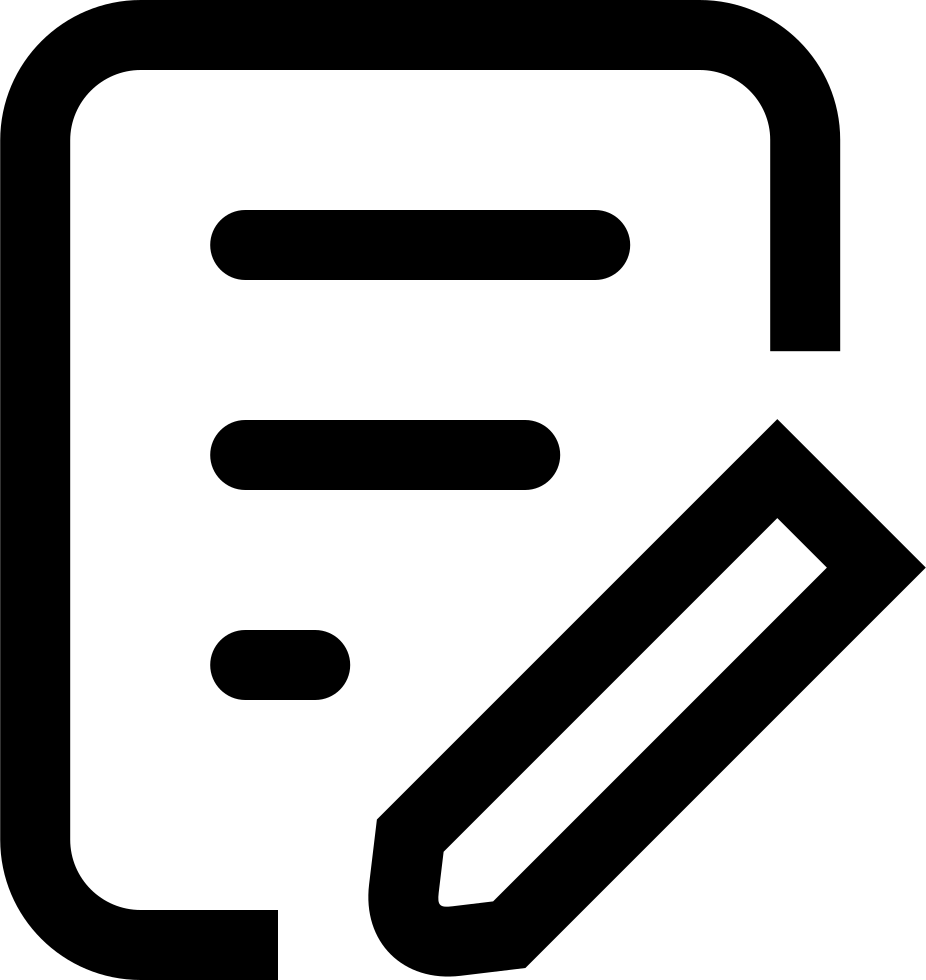
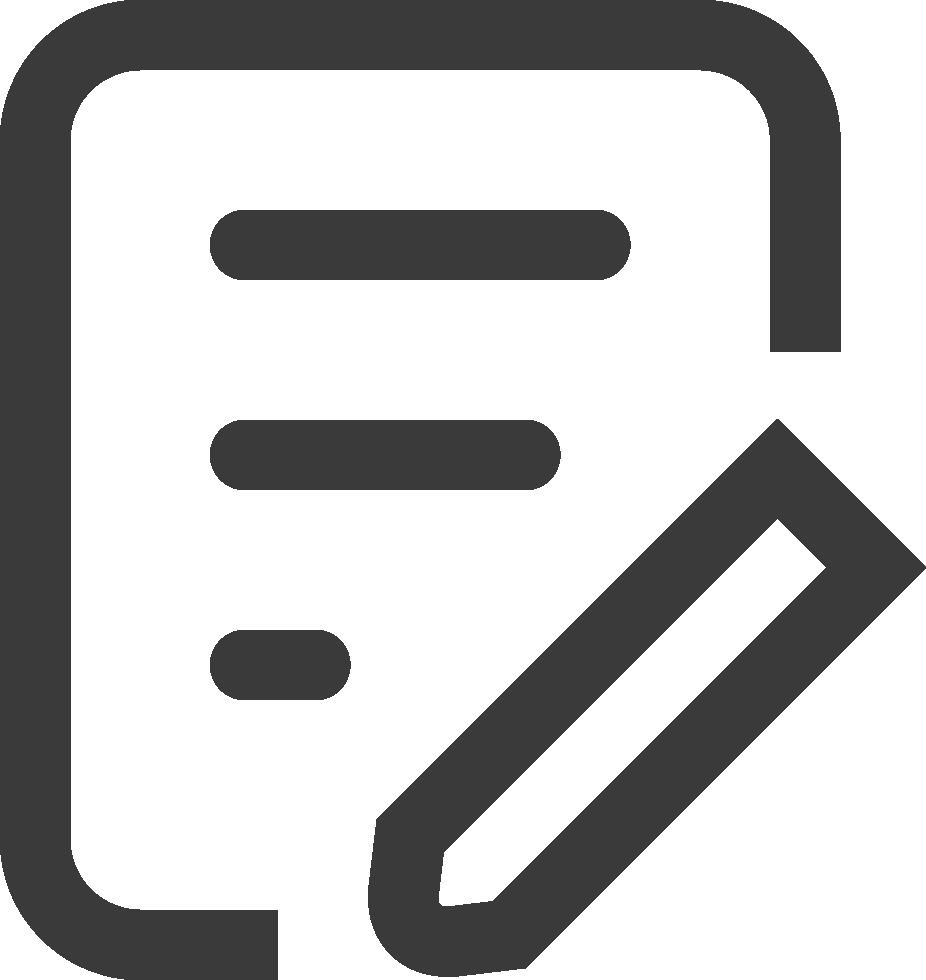
added hover effect

diff --git a/Styles/styles.css b/Styles/styles.css
@@ -1,30 +1,33 @@
 body {
-    background-color: #fdfdff;
+    background-color: #ffffff;
     font-family: -apple-system, BlinkMacSystemFont, 'Segoe UI', Roboto, Oxygen, Ubuntu, Cantarell, 'Open Sans', 'Helvetica Neue', sans-serif;
    }
 
 title {
     padding-top: 15%;
-    font-weight: 275;
+    font-weight: 300;
     text-align:center;
     display:block;
-    color: black;
+    color: #3A3A3A;
     font-size: 90px;
 }
 
 #typeWritter {
-    color: black;
+    color: #3A3A3A;
     font-weight: 75;
     font-size: 40px;
-
 }
 
-img {
+a {
     display: inline-block;
     bottom:0;
     margin: 30px;
     margin-top: 15%;
+    transition: transform .2s; /* Animation */
 }
+a:hover {
+    transform: scale(1.3); /* (150% zoom - Note: if the zoom is too large, it will go outside of the viewport) */
+  }
    
 @media only screen and (max-width: 600px) {
     img{
@@ -39,11 +42,11 @@ img {
         font-weight: 300;
         text-align:center;
         display:block;
-        color: black;
+        color:#3A3A3A;
         font-size: 65px;
     }
     #typeWritter {
-        color: black;
+        color: #3A3A3A;
         font-size: 30px;
         margin-top: 5%;
     }

diff --git a/Styles/projectstyle.css b/Styles/projectstyle.css
@@ -1,14 +1,14 @@
 body {
-    background-color: #fdfdff;
+    background-color: #ffffff;
     font-family: -apple-system, BlinkMacSystemFont, 'Segoe UI', Roboto, Oxygen, Ubuntu, Cantarell, 'Open Sans', 'Helvetica Neue', sans-serif;
    }
 
 title {
     padding-top: 5%;
-    font-weight: 275;
+    font-weight: 300;
     text-align:center;
     display:block;
-    color: black;
+    color: #3A3A3A;
     font-size: 90px;
 }
 
@@ -22,6 +22,7 @@ title {
     margin: 15px;
     font-size: 30px;
     justify-content: center;
+    transition: transform .2s; /* Animation */
   }
   
 .fade-in {
@@ -33,6 +34,10 @@ title {
     max-width: 1500px;
     margin: 0 auto;
 }
+  
+  a:hover {
+    transform: scale(1.05); /* (150% zoom - Note: if the zoom is too large, it will go outside of the viewport) */
+  }
 
 @keyframes fadeInOpacity {
 	0% {
@@ -49,7 +54,7 @@ title {
         font-weight: 300;
         text-align:center;
         display:block;
-        color: black;
+        color: #3A3A3A;
         font-size: 65px;
     }
     .flex-container {
